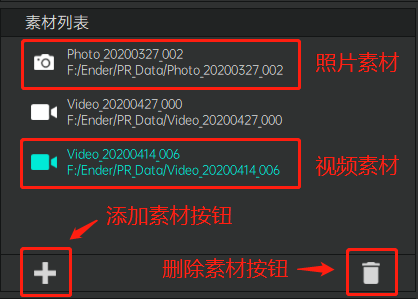
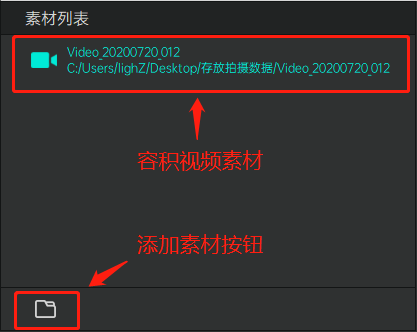
update promholostudio doc

Changed region(s): [[0.0, 0.0, 1.0, 1.0], [0.2182, 0.6923, 0.6547, 0.7826]]

diff --git a/docs/page_holoEdit.md b/docs/page_holoEdit.md
@@ -2,40 +2,34 @@
 
 #<span id = "id_page_holoEdit">录播编辑</span>
 ## 功能介绍
-录播编辑模块为用户提供人体容积视频素材的预览、编辑和导出功能，并且采用项目文件的组织方式记录用户对各个素材的相关操作。界面上分为由文件菜单以及下方的项目标识组成的[文件/项目区](#holoEdit_fileAndProjectArea)、左上方的[素材列表区](#holoEdit_assetsArea)、左下方的[参数设置区](#holoEdit_settingArea)、右上方的[模型/点云预览区](#holoEdit_modelAndPointcloudPreviewArea)和右下方的[容积视频导出区](#holoEdit_exportArea)。
+录播编辑模块为用户提供人体容积视频素材的预览、编辑和导出功能。界面上分为左上方的[素材列表区](#holoEdit_assetsArea)、左下方的[参数设置区](#holoEdit_settingArea)、右上方的[模型/点云预览区](#holoEdit_modelAndPointcloudPreviewArea)和右下方的[容积视频导出区](#holoEdit_exportArea)。
 
-![image](imgs/PromHoloStudio/page_holoEdit/img_holoEdit_temp.png)
+<img src="imgs/PromHoloStudio/page_holoEdit/img_holoEdit_temp.png" width="75%">
 
 ## 操作指南
-###<span id = "holoEdit_fileAndProjectArea">文件/项目区</span>
-文件/项目区由文件菜单以及下方的项目标识组成。用户通过文件菜单和相应的交互弹窗，可以方便的新建/打开录播编辑的工作项目，或者对现有工作项目进行命名并且保存（项目文件以.json的方式存储）。文件菜单下方的项目标识将显示当前项目状态（即项目名称、项目是否新建、是否有修改、是否已保存等）。
-
-![image](imgs/PromHoloStudio/page_holoEdit/img_holoEdit_temp2.png)   ![image](imgs/PromHoloStudio/page_holoEdit/img_holoEdit_temp3.png)
-
 ###<span id = "holoEdit_assetsArea">素材列表区</span>
-素材列表区提供用户添加/删除各种容积视频素材的功能。容积视频素材支持视频素材和照片素材两种（照片素材列表项图标为照相机，视频素材列表项图标为录像机）。点击素材列表左下方的“添加素材按钮”（“+”号图标），在弹出的文件夹选择弹窗当中选择相应的素材文件目录即可完成素材的添加操作（素材文件的目录指的是Holo录播模块拍摄出来的具体视频或者照片文件目录，其目录名称有特定的组织方式，例如 Video_20200620_001或者Photo_20200620_001等，具体请参考Holo录播模块下[拍摄容积视频素材](page_capture.md#capture_captureAssets)的具体描述）；素材列表支持添加多段素材，但是同时只能有一段素材处于选中可编辑状态，鼠标双击列表项即可选中对应的素材，被选中的素材将呈绿色高亮显示；点击素材列表右下方的“删除素材按钮”（“垃圾桶”形状图标）即可删除当前选中的素材。
-*注意：对素材列表的增加/删除操作将被记录在项目文件当中，用户保存当前项目文件的同时也将保存当前项目所引用的素材列表，详情请参考[文件/项目区](#holoEdit_fileAndProjectArea)。*
+素材列表区提供用户添加各种容积视频素材的功能。容积视频素材支持视频素材和照片素材两种（照片素材列表项图标为照相机，视频素材列表项图标为录像机）。点击素材列表左下方的“添加素材按钮”（按钮图标呈文件夹状），在弹出的文件夹选择弹窗当中选择相应的素材文件目录即可完成素材的添加操作（素材文件的目录指的是Holo录播模块拍摄出来的具体视频或者照片文件目录，其目录名称有特定的组织方式，例如 Video_20200620_001或者Photo_20200620_001等，具体请参考Holo录播模块下[拍摄容积视频素材](page_capture.md#capture_captureAssets)的具体描述）。
 
-![image](imgs/PromHoloStudio/page_holoEdit/img_holoEdit_temp4.png)
+<img src="imgs/PromHoloStudio/page_holoEdit/img_holoEdit_temp4.png" width="35%">
 
 ###<span id = "holoEdit_settingArea">参数设置区</span>
 参数设置区为用户提供调整容积视频呈现质量相关参数的功能。系统默认为用户提供了一组比较平衡的参数配置，但是仍然保留自定义调整的高级功能以方便用户根据各自的实际情况进行必要的参数调整。参数说明如下：
 * 主相机：一般设置为正对拍摄对象脸部的相机；指定主相机后将优先使用主相机的纹理图优化拍摄对象脸部建模的呈现效果。
-* 模型面数：参数范围：500 - 50000，模型面数越高则建模精度越高，但是系统性能开销也会越高。推荐范围10000 - 20000。
+* 模型面数：参数范围：6000 - 60000，模型面数越高则建模精度越高，但是系统性能开销也会越高。推荐范围10000 - 20000。
 * 纹理图分辨率：指代容积视频纹理图的分辨率，分辨率越高则呈现质量越精细，但是文件也越大。
 * Poisson深度：指代模型细节算法等级，参数范围：6 - 8，深度越深，模型细节越丰富。
 * UV展开方法：指代纹理图UV的展开方法，xatlas方法更快，而其他的方法则连续性更好。
-* 纹理图后处理：指代纹理拼接优化算法，启用该优化算法可能使得某些纹理间的拼接过渡更平滑自然，选择none则为不使用。
-* 模型坐标系：cv/cg（后续调整该选项）
-* Psr方法：（后续调整该选项）
-* Pc方法：（后续调整该选项）
-* Simp方法：（后续调整该选项）
+* 纹理图后处理：指代纹理拼接优化算法，启用该优化算法可能使得某些纹理间的拼接过渡更平滑自然，默认使用verts_extend方法。
+* 模型坐标系：cv/cg坐标系，目前算法支持cv坐标系，该参数不建议改动。
+* Psr方法：目前算法支持psr-v12方法，该参数不建议改动。
+* Pc方法：目前算法支持volume方法，该参数不建议改动。
+* Simp方法：目前算法支持fqms方法，该参数不建议改动。
 *注意：当修改参数设置完成后，请不要忘记点击“应用设置”按钮以确保修改生效；修改效果将实时反馈显示在右上方的[模型/点云预览区](#holoEdit_modelAndPointcloudPreviewArea)当中。*
 
-![image](imgs/PromHoloStudio/page_holoEdit/img_holoEdit_temp5.png)
+<img src="imgs/PromHoloStudio/page_holoEdit/img_holoEdit_temp5.png" width="30%">
 
 ###<span id = "holoEdit_modelAndPointcloudPreviewArea">模型/点云预览区</span>
-模型/点云预览区将显示[素材列表](#holoEdit_assetsArea)当前所选中素材其中某一帧的完整三维重建模型（见于左侧预览窗口）和对应的点云模型（见于右侧预览窗口）。用户可以通过鼠标或键盘对相应模型的观察视角进行操控。左侧模型预览窗口下方还将显示当前所预览的完整三维重建模型的帧序号以及对应的时间点（单位秒），点击其右侧的“导出该帧”按钮将生成导出一份单帧静态内容的三维重建模型文件（文件名后缀为.obj），该文件支持在如3ds Max、Maya、Sketchup、Blender、Houdini等许多主流建模软件当中查看使用。
+模型/点云预览区将显示[素材列表](#holoEdit_assetsArea)当前素材其中某一帧的三维重建模型（见于左侧预览窗口）和对应的点云模型（见于右侧预览窗口）。用户可以通过鼠标或键盘对相应模型的观察视角进行操控。左侧模型预览窗口下方还将显示当前所预览的三维重建模型的帧序号以及对应的时间点（单位秒），点击其右侧的“导出该帧”按钮将生成导出一份单帧静态内容的三维重建模型文件（文件名后缀为.obj），该文件支持在如3ds Max、Maya、Sketchup、Blender、Houdini等许多主流建模软件当中查看使用。
 
 **支持的鼠标/键盘操作**：
 * 鼠标滚轮：视角缩放。
@@ -43,7 +37,7 @@
 * 鼠标中键拖拽：视角平移。
 * 键盘R键：视角重置。
 
-![image](imgs/PromHoloStudio/page_holoEdit/img_holoEdit_temp6.png)
+<img src="imgs/PromHoloStudio/page_holoEdit/img_holoEdit_temp6.png" width="75%">
 
 ###<span id = "holoEdit_exportArea">容积视频导出区</span>
 容积视频导出区为用户提供当前目标容积视频素材的容积视频导出功能。具体描述如下：
@@ -51,15 +45,19 @@
 * 用户在[素材列表](#holoEdit_assetsArea)当中添加一段容积视频素材后，容积视频导出区的视频进度条上方将显示该视频素材的时间刻度。
 * 通过拖拽视频进度条的当前帧滑块，用户可以方便的在[模型/点云预览区](#holoEdit_modelAndPointcloudPreviewArea)右半部分的“当前帧点云图”预览窗口当中实时预览该帧的点云模型，与此同时，本区域左上方的“当前帧”和“秒数”步进器控件也将同步显示该帧的帧号以及对应的时间点；反过来用户也可以通过调整“当前帧”或者“秒数”步进器控件（这两者是联动的，具体看用户习惯于按帧数调整还是按秒数调整）来控制视频进度条的当前帧滑块并预览相应的点云模型。
 * 点击本区域居中的“播放按钮”（按钮图标为竖三角状），可以在[模型/点云预览区](#holoEdit_modelAndPointcloudPreviewArea)右半部分的“当前帧点云图”预览窗口当中循环播放目标容积视频的点云模型动画，再次点击该按钮则停止播放。
-* 点击本区域左上方的“预览该帧”按钮可以在[模型/点云预览区](#holoEdit_modelAndPointcloudPreviewArea)左半部分的“当前帧模型图”预览窗口当中预览该帧的完整三维重建模型。
+* 点击本区域左上方的“预览该帧”按钮可以在[模型/点云预览区](#holoEdit_modelAndPointcloudPreviewArea)左半部分的“当前帧模型图”预览窗口当中预览该帧的三维重建模型。
 * 点击本区域左上方的“设为起点”按钮，可以将当前帧滑块对应的帧号/时间点设置为导出目标容积视频的起点，该起点值将同步显示在本区域右上方的“起点”步进器当中，同时视频进度条左侧的“起点滑块”也将同步移动到进度条相应时间点位置。
 * 点击本区域左上方的“设为终点”按钮，可以将当前帧滑块对应的帧号/时间点设置为导出目标容积视频的终点，该终点值将同步显示在本区域右上方的“终点”步进器当中，同时视频进度条右侧的“终点滑块”也将同步移动到进度条相应时间点位置。
 * 拖拽视频进度条左侧的“起点滑块”，可以将该滑块对应的帧号/时间点设置为导出目标容积视频的起点，该起点值将同步显示在本区域右上方的“起点”步进器当中。
 * 拖拽视频进度条左侧的“终点滑块”，可以将该滑块对应的帧号/时间点设置为导出目标容积视频的终点，该终点值将同步显示在本区域右上方的“终点”步进器当中。
 * 调整本区域右上方的“起点”步进器控件的值（调整起点帧或者起点秒数都可以，这两者是联动的，具体看用户习惯于按帧数调整还是按秒数调整），可以设置导出目标容积视频的起点，这个调整也将同步更新“起点滑块”在视频进度条上的位置。
 * 调整本区域右上方的“终点”步进器控件的值（调整终点帧或者终点秒数都可以，这两者是联动的，具体看用户习惯于按帧数调整还是按秒数调整），可以设置导出目标容积视频的终点，这个调整也将同步更新“终点滑块”在视频进度条上的位置。
-* 指定好导出容积视频的起点和终点后（如果不指定，则默认导出整段完整的容积视频），点击本区域右上方的“导出Holo视频”按钮，在弹出的指引弹窗当中设置好导出文件的文件名和路径即可开始导出容积视频，导出过程可能费时较长，请耐心等待；待导出完成后将在指定目录下生成一份包含动态内容的容积视频文件（文件名后缀为.mp4），配合使用我们提供的专门的播放工具/插件即可浏览播放。
-  
-![image](imgs/PromHoloStudio/page_holoEdit/img_holoEdit_temp7.png)
+* 指定好导出容积视频的起点和终点后（如果不指定，则默认导出整段完整的容积视频），点击本区域右上方的“导出Holo视频”按钮，在弹出的指引弹窗当中设置好导出文件的文件名和路径即可开始导出容积视频，导出过程可能费时较长，请耐心等待；待导出完成后将在指定目录下生成一份包含动态内容和音频（如果拍摄容积视频素材时包含了音频数据的话）的容积视频文件（文件名后缀为.mp4），配合使用我们提供的专门的播放工具/插件即可浏览播放。
 
-![image](imgs/PromHoloStudio/page_holoEdit/img_holoEdit_temp8.png) ![image](imgs/PromHoloStudio/page_holoEdit/img_holoEdit_temp9.png)
+<img src="imgs/PromHoloStudio/page_holoEdit/img_holoEdit_temp7.png" width="75%">
+
+<img src="imgs/PromHoloStudio/page_holoEdit/img_holoEdit_temp10.png" width="35%">
+
+<img src="imgs/PromHoloStudio/page_holoEdit/img_holoEdit_temp8.png" width="33%">
+
+<img src="imgs/PromHoloStudio/page_holoEdit/img_holoEdit_temp9.png" width="75%">
